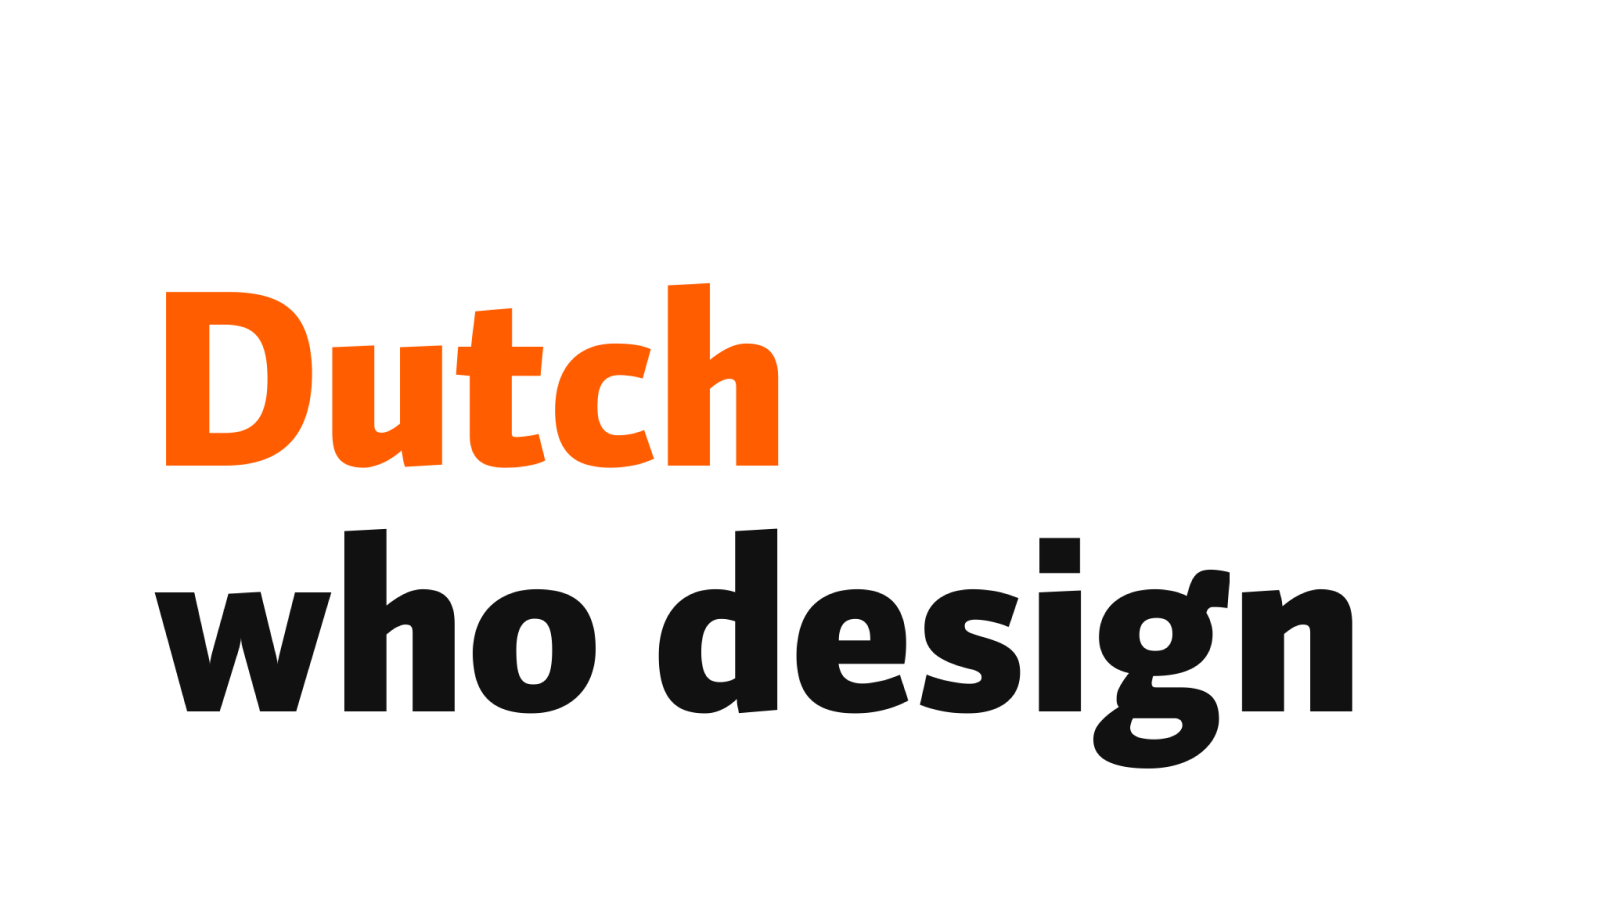
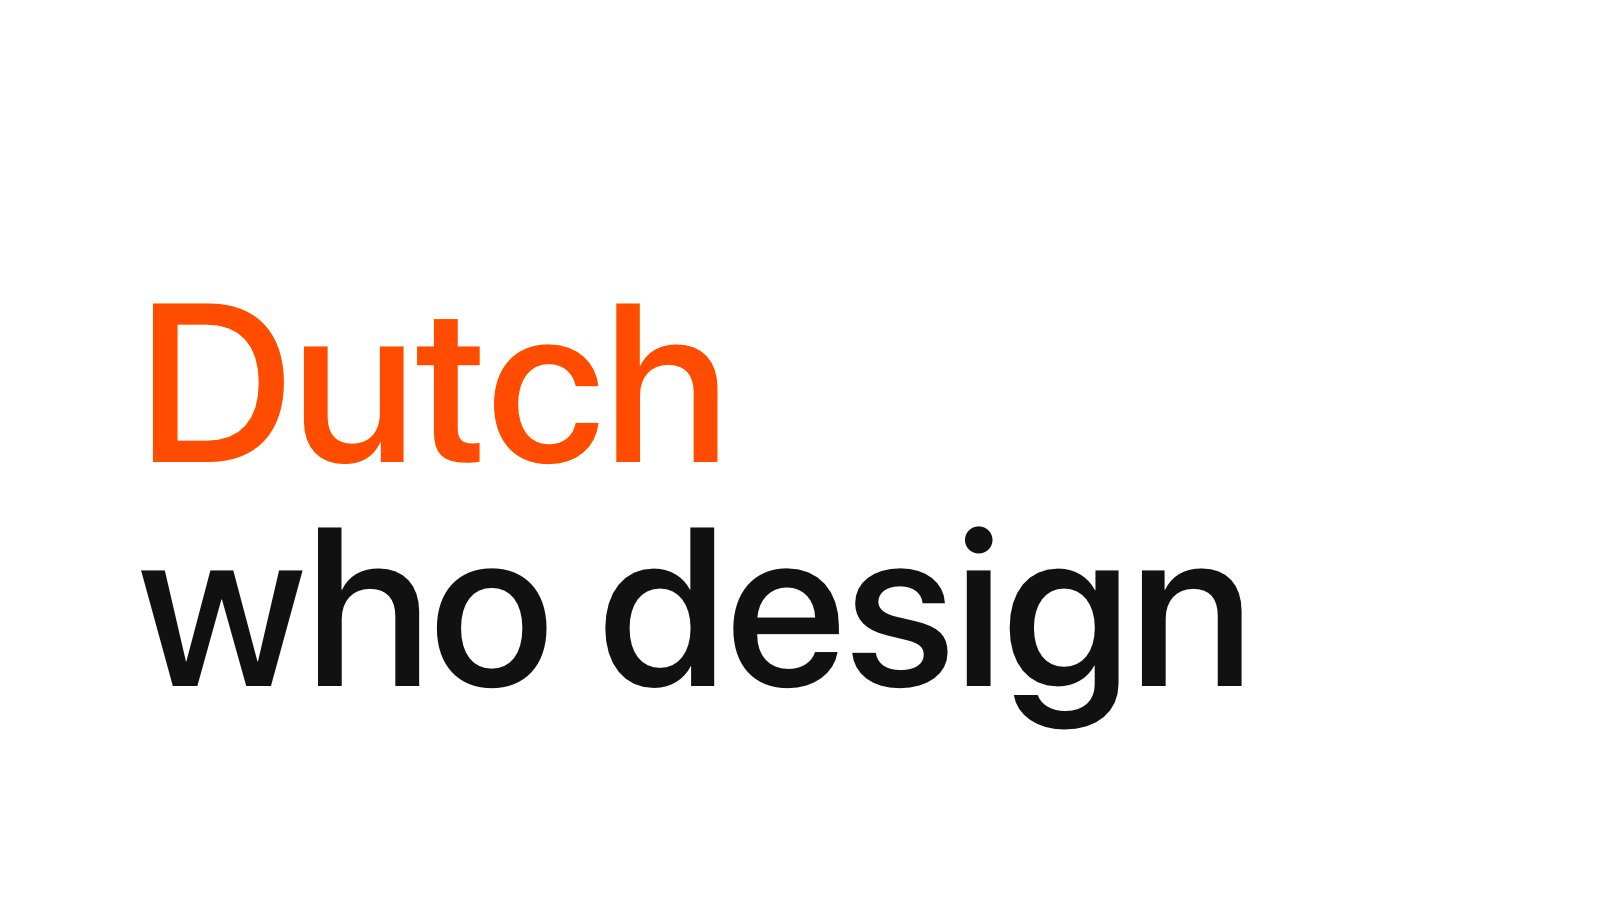
updated preview

Changed region(s): [[0.0938, 0.5911, 0.8438, 0.8711], [0.0938, 0.3111, 0.5, 0.5289]]

diff --git a/assets/styles/modernism.css b/assets/styles/modernism.css
@@ -1,4 +1,3 @@
-
 @import url('https://fonts.cdnfonts.com/css/sf-pro-display'); 
 
 html {
@@ -53,7 +52,6 @@ font-weight: 800;
   font-size: 5.625rem;
   /* letter-spacing: -0.03em; */
   line-height: 100%;
-  font-weight: 500;
   letter-spacing: 0px;
   /* font-feature-settings: "ss08" on, "ss02" on, "ss01" on, "salt" on, "cpsp" on; */
 }
@@ -87,7 +85,7 @@ table {
 }
 
 table a{
-font-weight: 600;
+font-weight: 400;
 }
 
 table tbody td,
